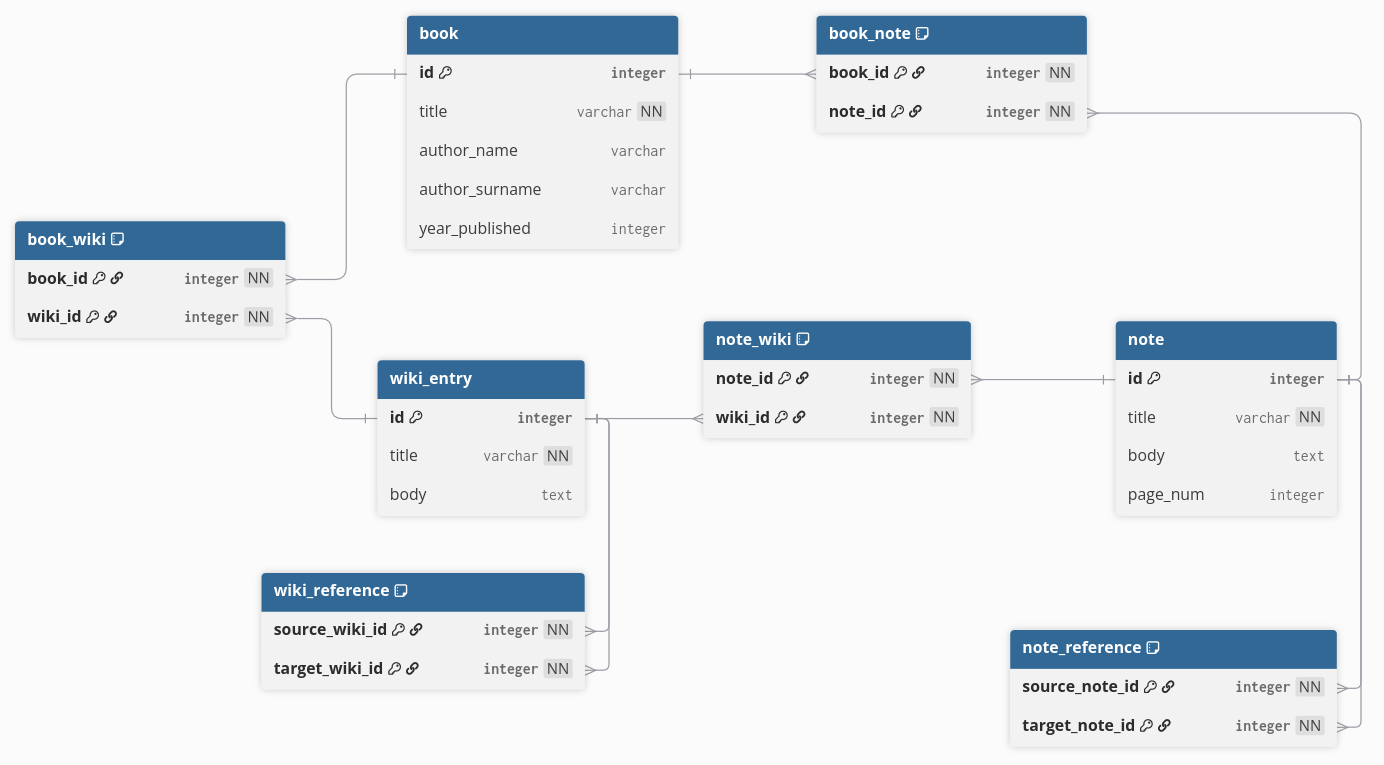
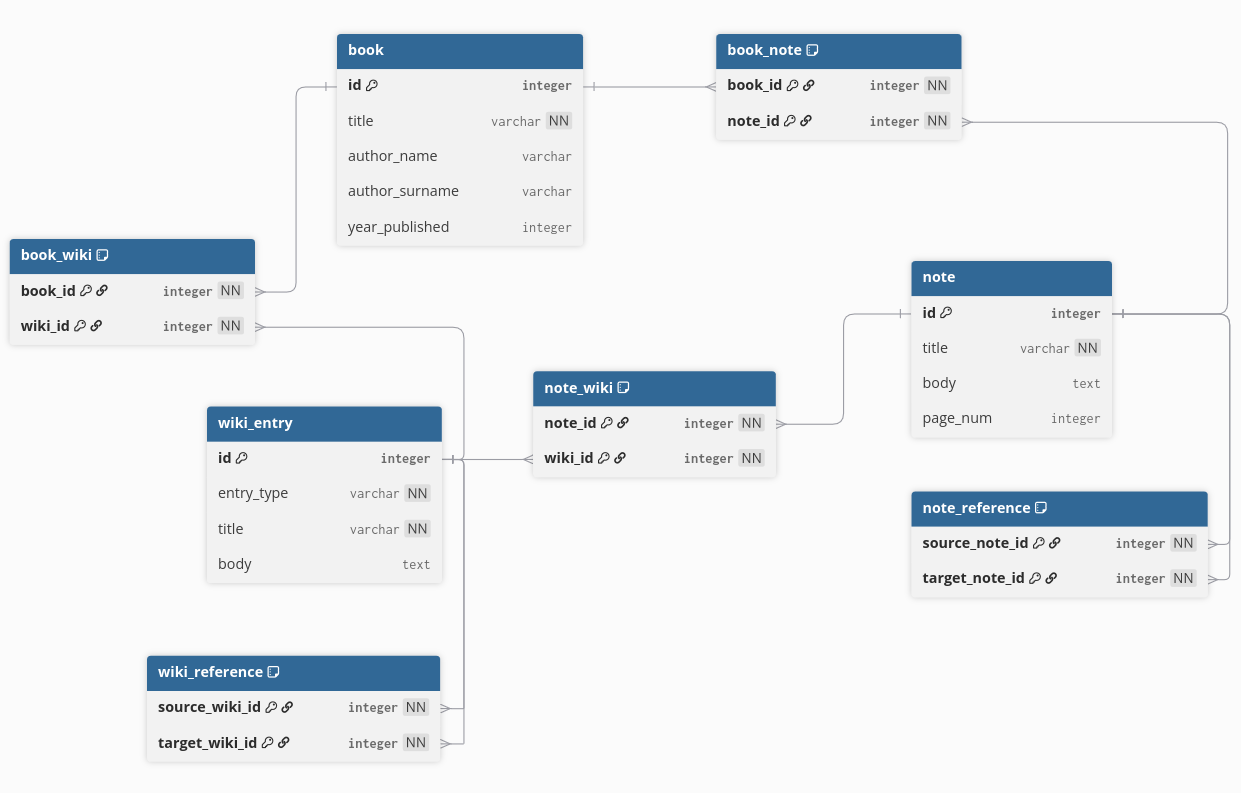
Added entry_type attribute to wiki_entry table. Updated database diagram.

diff --git a/src/database.js b/src/database.js
@@ -19,6 +19,7 @@ const createDBQuery = `
 
     CREATE TABLE IF NOT EXISTS wiki_entry (
         id INTEGER PRIMARY KEY,
+        entry_type TEXT,
         title TEXT NOT NULL,
         body TEXT
     );
